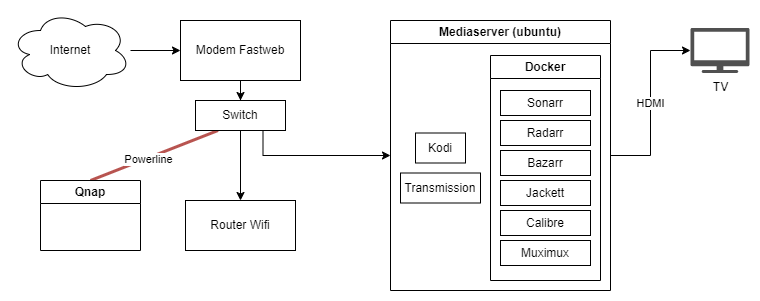
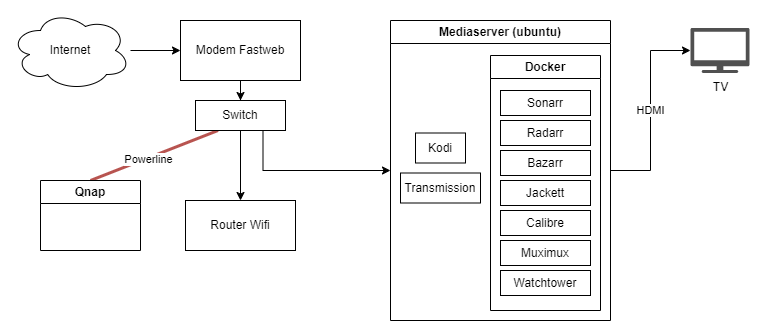
homelab

diff --git a/_drafts/k3s.md b/_drafts/k3s.md
@@ -1,0 +1,31 @@
+installazione locale kubectl https://kubernetes.io/docs/tasks/tools/install-kubectl-linux/
+
+sudo apt-get install -y apt-transport-https ca-certificates curl
+curl -fsSL https://pkgs.k8s.io/core:/stable:/v1.30/deb/Release.key | sudo gpg --dearmor -o /etc/apt/keyrings/kubernetes-apt-keyring.gpg
+sudo chmod 644 /etc/apt/keyrings/kubernetes-apt-keyring.gpg
+echo 'deb [signed-by=/etc/apt/keyrings/kubernetes-apt-keyring.gpg] https://pkgs.k8s.io/core:/stable:/v1.30/deb/ /' | sudo tee /etc/apt/sources.list.d/kubernetes.list
+sudo chmod 644 /etc/apt/sources.list.d/kubernetes.list
+sudo apt-get update
+sudo apt-get install -y kubectl
+
+
+
+installazione helm https://helm.sh/docs/intro/install/
+
+curl -fsSL -o get_helm.sh https://raw.githubusercontent.com/helm/helm/main/scripts/get-helm-3
+chmod 700 get_helm.sh
+./get_helm.sh
+
+
+
+installazione rancher  https://ranchermanager.docs.rancher.com/getting-started/quick-start-guides/deploy-rancher-manager/helm-cli
+
+helm repo add rancher-stable https://releases.rancher.com/server-charts/stable
+helm repo update
+kubectl create namespace cattle-system
+kubectl apply -f https://github.com/cert-manager/cert-manager/releases/download/v1.14.5/cert-manager.crds.yaml
+helm repo add jetstack https://charts.jetstack.io
+helm repo update
+helm install cert-manager jetstack/cert-manager \
+  --namespace cert-manager \
+  --create-namespace

diff --git a/_drafts/misc.md b/_drafts/misc.md
@@ -1,0 +1,16 @@
+# cambiare il timeout dello schermo di windows
+
+andare su
+
+`HKEY_LOCAL_MACHINE\SOFTWARE\Microsoft\Windows\CurrentVersion\Policies\System`
+
+creare una nuova `DWORD` con nome `InactivityTimeoutSecs` e impostare il valore in secondi (decimal)
+
+
+# creare una key ssh
+
+https://www.digitalocean.com/community/tutorials/how-to-configure-ssh-key-based-authentication-on-a-linux-server
+
+con ssh-keygen si crea la chiave
+
+con ssh-copy-id username@server si pusha la chiave sul server e a quel punto si può accedere senza password

diff --git a/_drafts/2024-04-15-jellyfin-proxmox-hardware-acceleration.md b/_drafts/2024-04-15-jellyfin-proxmox-hardware-acceleration.md
@@ -1,0 +1,15 @@
+---
+title: Proxmox, Jellyfin dentro docker dentro LXC container e accelerazione hardware
+date: 2024-04-15 11:54:00
+tags: proxmox jellyfin docker
+---
+
+Per ottimizzare la transcodifica dei media, ho voluto addendtrarmi nei settings di [accelerazione hardware di Jellyfin](https://jellyfin.org/docs/general/administration/hardware-acceleration/).
+
+Subito però si è palesato il primo problema: Jellyfin attualmente gira in un LXC container sul mio Proxmox, e da interfaccia grafica non c'è modo di fare il passthrougt della scheda video
+
+https://github.com/gma1n/LXC-JellyFin-GPU
+
+https://docs.nvidia.com/datacenter/cloud-native/container-toolkit/latest/install-guide.html
+
+https://www.alteredtech.io/posts/Docker-Jellyfin-HWA/